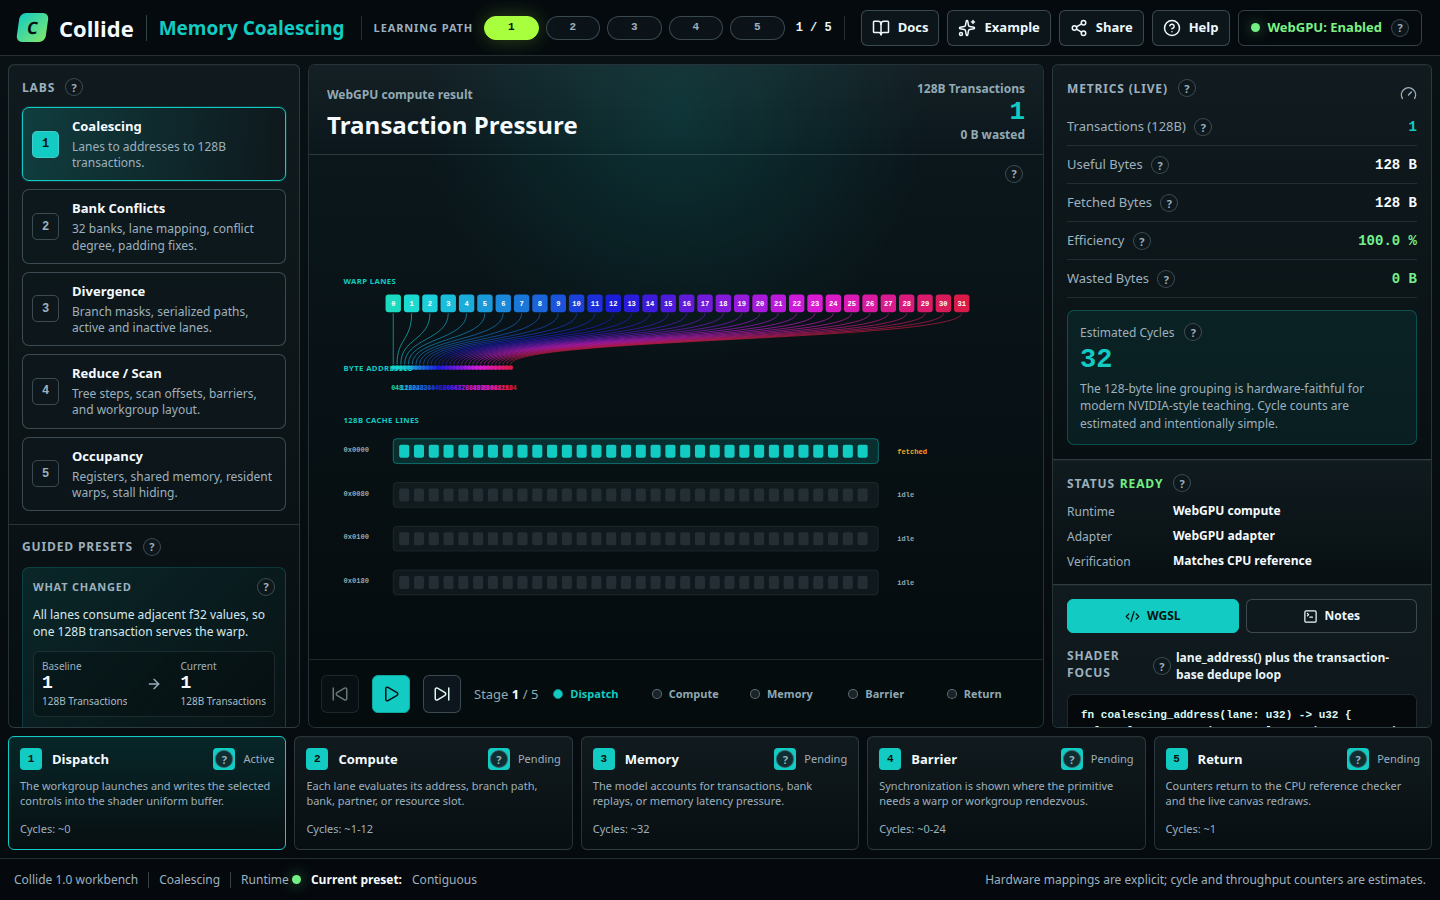
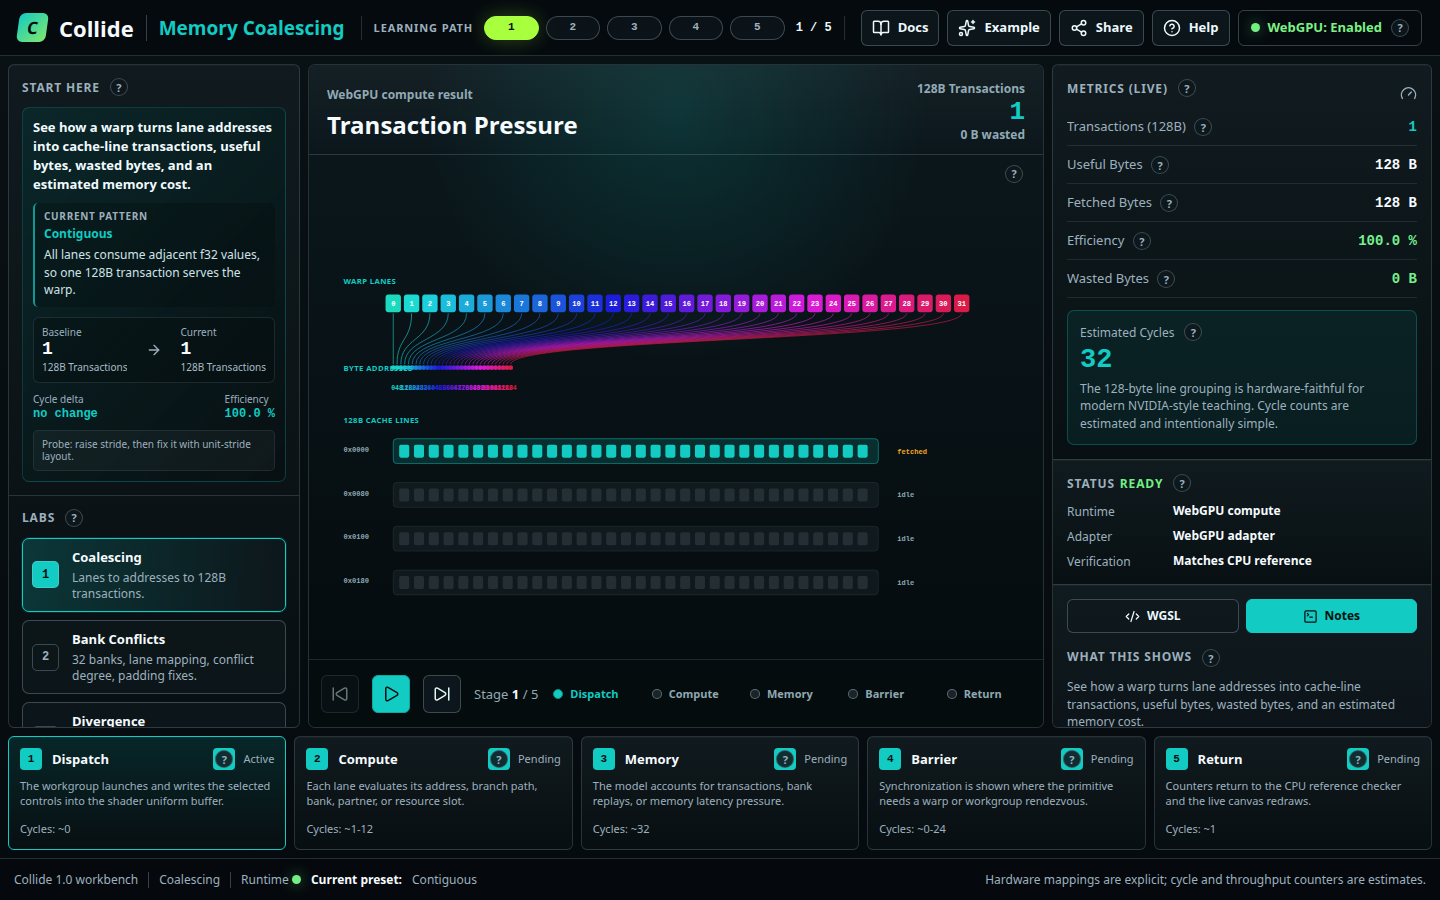
Put Collide explanations first

Changed region(s): [[0.0, 0.0933, 0.1875, 0.8089], [0.7188, 0.6533, 1.0, 0.8089]]

diff --git a/src/App.tsx b/src/App.tsx
@@ -58,7 +58,7 @@ function App() {
   const [isPlaying, setIsPlaying] = useState(false)
   const [shareStatus, setShareStatus] = useState<'idle' | 'copied'>('idle')
   const [shareUrl, setShareUrl] = useState<string | null>(null)
-  const [inspectorTab, setInspectorTab] = useState<'shader' | 'notes'>('shader')
+  const [inspectorTab, setInspectorTab] = useState<'shader' | 'notes'>('notes')
   const [activeHelp, setActiveHelp] = useState<string | null>(null)
   const runId = useRef(0)
   const inspectorRef = useRef<HTMLElement | null>(null)
@@ -238,6 +238,17 @@ function App() {
 
       <main className="workspace">
         <aside className="control-rail" aria-label="Labs and simulation controls">
+          <section className="rail-section explanation-first">
+            <SectionTitle title="Start Here" helpId="coach" activeHelp={activeHelp} onHelp={showHelp} />
+            <LearningCoach
+              lab={lab}
+              preset={selectedPreset}
+              result={result}
+              baselineResult={baselineResult}
+              activeHelp={activeHelp}
+            />
+          </section>
+
           <section className="rail-section lab-switcher">
             <SectionTitle title="Labs" helpId="labs" activeHelp={activeHelp} onHelp={showHelp} />
             <div className="lab-list">
@@ -258,14 +269,6 @@ function App() {
 
           <section className="rail-section" ref={presetsRef}>
             <SectionTitle title="Guided Presets" helpId="presets" activeHelp={activeHelp} onHelp={showHelp} />
-            <LearningCoach
-              lab={lab}
-              preset={selectedPreset}
-              result={result}
-              baselineResult={baselineResult}
-              activeHelp={activeHelp}
-              onHelp={showHelp}
-            />
             <div className="preset-list">
               {lab.presets.map((preset) => (
                 <button
@@ -470,13 +473,12 @@ function LearningPath({ activeIndex, onSelect }: {
   )
 }
 
-function LearningCoach({ lab, preset, result, baselineResult, activeHelp, onHelp }: {
+function LearningCoach({ lab, preset, result, baselineResult, activeHelp }: {
   lab: LabDefinition
   preset: LabPreset
   result: LabResult
   baselineResult: LabResult
   activeHelp: string | null
-  onHelp: (key: string) => void
 }) {
   const cycleDelta = result.summary.estimatedCycles - baselineResult.summary.estimatedCycles
   const efficiencyDelta = result.summary.efficiency - baselineResult.summary.efficiency
@@ -484,11 +486,12 @@ function LearningCoach({ lab, preset, result, baselineResult, activeHelp, onHelp
 
   return (
     <article className={`learning-coach ${tone}`} data-testid="learning-coach">
-      <div className="coach-head">
-        <span>What changed</span>
-        <HelpButton id="coach" activeHelp={activeHelp} onToggle={onHelp} />
+      <p className="coach-concept">{lab.concept}</p>
+      <div className="coach-pattern">
+        <small>Current pattern</small>
+        <strong>{preset.title}</strong>
+        <p>{preset.why}</p>
       </div>
-      <p>{preset.why}</p>
       <div className="coach-compare" aria-label="Current pattern compared with the baseline preset">
         <div>
           <small>Baseline</small>
@@ -757,7 +760,7 @@ function helpText(id: string): string {
     parameters: 'Parameters mutate the shader input. The CPU reference updates immediately; WebGPU replaces it only after matching the reference.',
     reset: 'Reset Lab restores the current lab to its first guided preset and stops timeline playback.',
     canvas: 'The center canvas draws the actual lane records and summary counters returned by the simulator.',
-    coach: 'What changed compares the selected preset with the lab baseline so the hardware consequence is visible before you inspect the shader.',
+    coach: 'Start Here puts the concept before controls, then compares the selected pattern with the lab baseline before you inspect the shader.',
     metrics: 'Metrics are live counters decoded from the current result: WebGPU when verified, CPU reference as fallback.',
     cycles: 'Estimated cycles are teaching scores, not vendor-profiler timing. They let patterns be compared consistently.',
     status: 'Status tells you whether WebGPU is available, which runtime is displayed, and whether GPU output matched the CPU reference.',

diff --git a/tests/app.spec.ts b/tests/app.spec.ts
@@ -16,7 +16,10 @@ test('app loads the workbench and core controls without console errors', async (
   await expect(page.getByRole('button', { name: /Share/ })).toBeVisible()
   await expect(page.getByText('Metrics (Live)')).toBeVisible()
   await expect(page.getByTestId('learning-path')).toContainText('1 / 5')
-  await expect(page.getByTestId('learning-coach')).toContainText('What changed')
+  await expect(page.getByRole('heading', { name: /Start Here/ })).toBeVisible()
+  await expect(page.getByTestId('learning-coach')).toContainText('See how a warp turns lane addresses')
+  await expect(page.getByRole('button', { name: /Notes/ })).toHaveClass(/active/)
+  await expect(page.getByRole('heading', { name: /What This Shows/ })).toBeVisible()
 
   await page.getByRole('button', { name: /Strided/ }).click()
   await expect(page.locator('.metric-row').filter({ hasText: 'Efficiency' })).toContainText('50.0 %')
@@ -123,7 +126,7 @@ test('timeline transport controls move, play, pause, and reset predictably', asy
 test('inspector tabs, reduction choice buttons, and sliders update visible state', async ({ page }) => {
   await page.goto('/')
 
-  await page.getByRole('button', { name: /Notes/ }).click()
+  await expect(page.getByRole('button', { name: /Notes/ })).toHaveClass(/active/)
   await expect(page.getByRole('heading', { name: /What This Shows/ })).toBeVisible()
   await page.getByRole('button', { name: /WGSL/ }).click()
   await expect(page.getByText(/lane_address/)).toBeVisible()
@@ -164,6 +167,9 @@ test('contextual question-mark help exists for every major workbench region', as
   ]
 
   for (const label of labels) {
+    if (label.source.includes('shader')) {
+      await page.getByRole('button', { name: /WGSL/ }).click()
+    }
     await page.getByRole('button', { name: label }).first().click()
     await expect(page.getByTestId('help-popover').or(page.getByTestId('inline-help')).first()).toBeVisible()
   }

diff --git a/src/App.css b/src/App.css
@@ -316,6 +316,10 @@
   border-bottom: 1px solid var(--line);
 }
 
+.explanation-first .learning-coach {
+  margin-top: 0;
+}
+
 .rail-section h2,
 .metric-panel h2,
 .shader-panel h2,
@@ -478,19 +482,10 @@
   border-color: rgba(118, 240, 141, 0.28);
 }
 
-.coach-head,
 .coach-delta,
 .coach-compare {
   display: flex;
   align-items: center;
-}
-
-.coach-head {
-  justify-content: space-between;
-  color: var(--muted);
-  text-transform: uppercase;
-  letter-spacing: 0.07em;
-  font: 800 11px/1 var(--sans);
 }
 
 .learning-coach p {
@@ -498,6 +493,37 @@
   color: #d6e8ee;
   font-size: 12px;
   line-height: 1.45;
+}
+
+.learning-coach .coach-concept {
+  color: #f1fbff;
+  font-size: 13px;
+  font-weight: 700;
+}
+
+.coach-pattern {
+  display: grid;
+  gap: 4px;
+  padding: 8px 9px;
+  border-left: 2px solid rgba(18, 203, 195, 0.72);
+  border-radius: 5px;
+  background: rgba(2, 6, 8, 0.26);
+}
+
+.coach-pattern small {
+  color: var(--muted);
+  font: 800 10px/1 var(--sans);
+  text-transform: uppercase;
+  letter-spacing: 0.07em;
+}
+
+.coach-pattern strong {
+  color: var(--teal);
+  font-size: 12px;
+}
+
+.coach-pattern p {
+  color: #cfe2e8;
 }
 
 .coach-compare {

diff --git a/src/App.test.tsx b/src/App.test.tsx
@@ -13,7 +13,9 @@ describe('Collide 1.0 workbench shell', () => {
     expect(rail.getByRole('button', { name: /Reduce \/ Scan/ })).toBeInTheDocument()
     expect(rail.getByRole('button', { name: /Occupancy/ })).toBeInTheDocument()
     expect(screen.getByTestId('learning-path')).toHaveTextContent('1 / 5')
-    expect(screen.getByTestId('learning-coach')).toHaveTextContent('What changed')
+    expect(rail.getByRole('heading', { name: /Start Here/ })).toBeInTheDocument()
+    expect(screen.getByTestId('learning-coach')).toHaveTextContent('See how a warp turns lane addresses')
+    expect(screen.getByText('What This Shows')).toBeInTheDocument()
     expect(screen.getByLabelText('Pipeline timeline')).toBeInTheDocument()
   })
 
